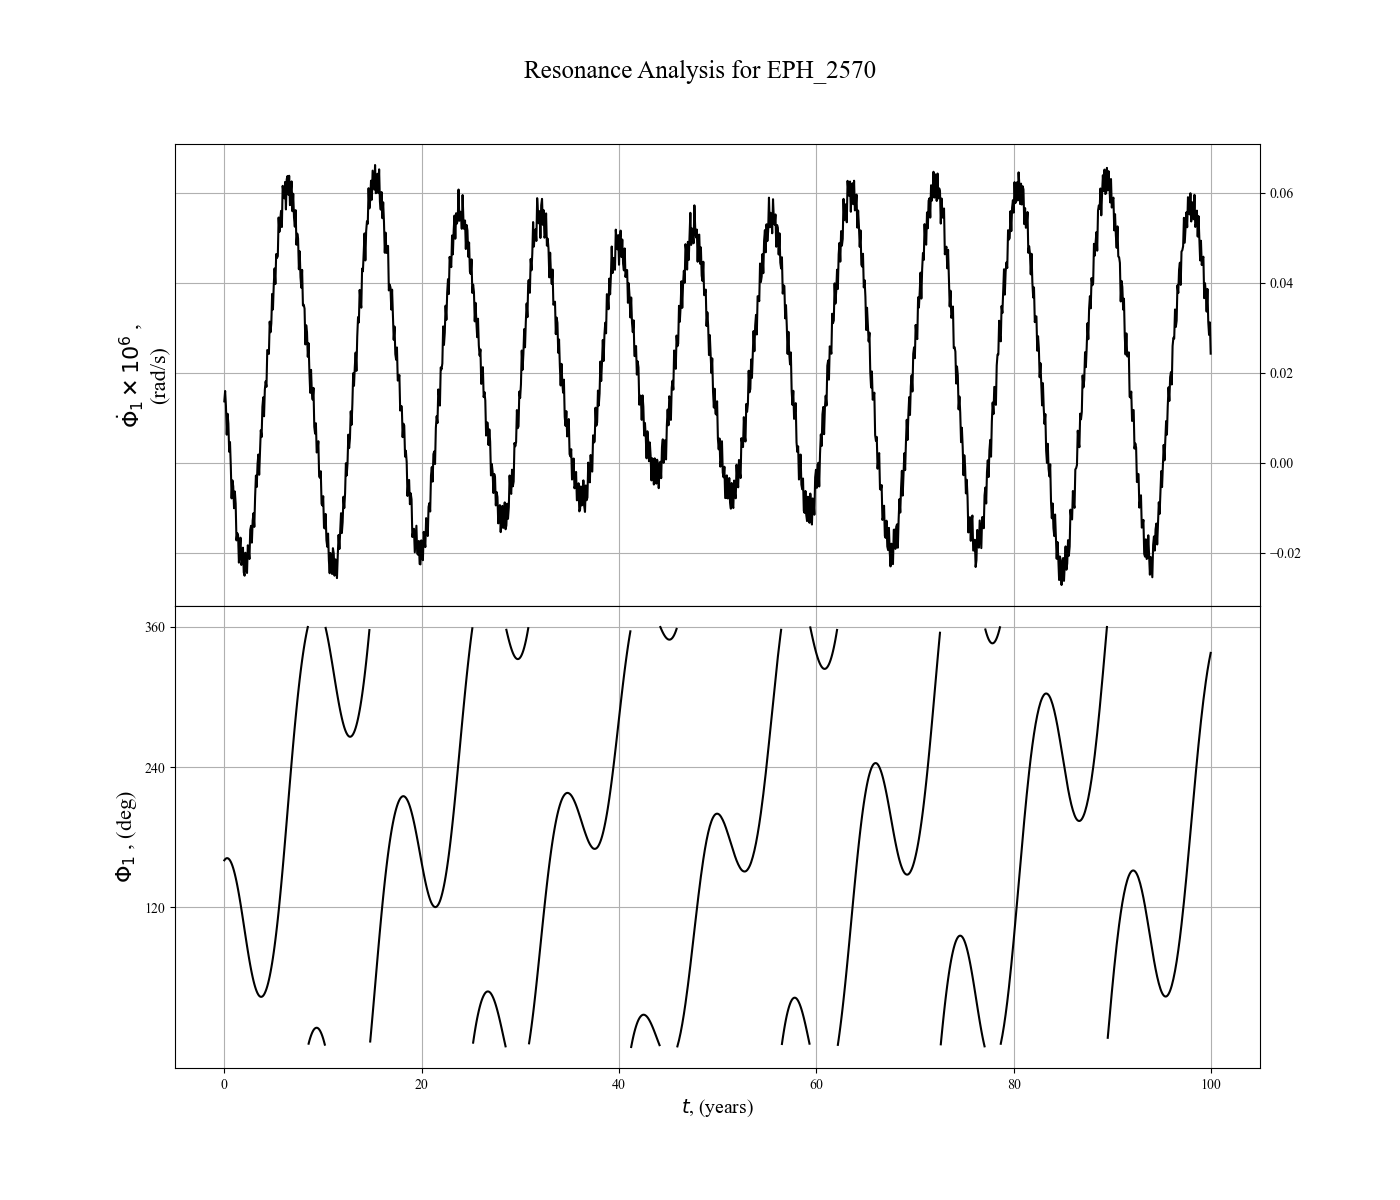
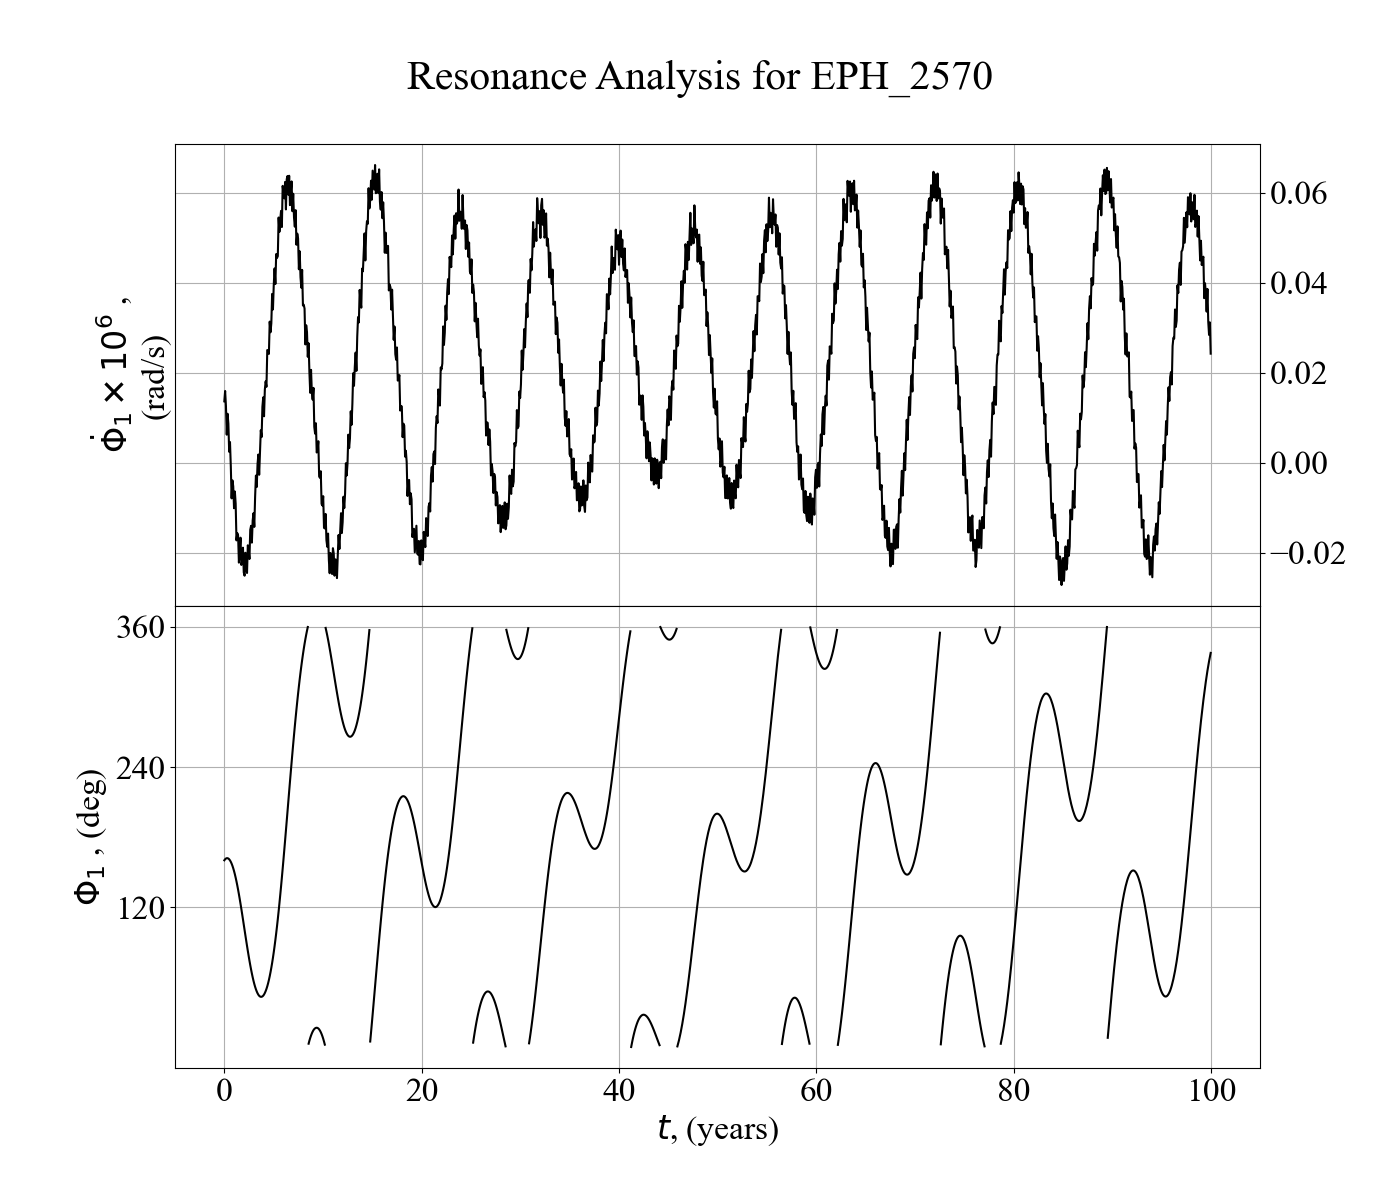
Change the font size of label in graphs

diff --git a/grapher.py b/grapher.py
@@ -57,13 +57,15 @@ def process_graph(subdirectory, base_path='data'):
 
         # Create a figure with subplots for stacked visualization
         fig, axes = plt.subplots(2, 1, figsize=(14, 12), sharex=True, gridspec_kw={'hspace': 0})
-        fig.suptitle(f'Resonance Analysis for {subdirectory}', fontsize=18, y=0.95)
+        fig.suptitle(f'Resonance Analysis for {subdirectory}', fontsize=30, y=0.95)
+        axes[0].tick_params(axis='both', which='major', labelsize=24)
+        axes[1].tick_params(axis='both', which='major', labelsize=24)
         
         for segment in segments:
             axes[0].plot(x[segment], y[segment]  * 1E6, color='black', label=rf"$\dot{{\phi}}_{i}$" if segment[0] == 0 else "")
 
-        axes[0].set_xlabel('Time (years)', fontsize=14)
-        axes[0].set_ylabel(rf'$\dot{{\Phi}}_{i}\, \text{{✕}}\, 10^{{6}}$' ' ,\n(rad/s)', fontsize=16)
+        # axes[0].set_xlabel('Time (years)', fontsize=24)
+        axes[0].set_ylabel(rf'$\dot{{\Phi}}_{i}\, \text{{✕}}\, 10^{{6}}$' ' ,\n(rad/s)', fontsize=24)
         # axes[0].set_title(rf'$\dot{{\Phi}}_{i}$', fontsize=16)
         axes[0].yaxis.tick_right()
         axes[0].grid(True)
@@ -81,8 +83,8 @@ def process_graph(subdirectory, base_path='data'):
             axes[1].plot(x[segment], y[segment], color='black', label=rf'$\phi_{i}$' if segment[0] == 0 else "")
 
         axes[1].set_yticks([120, 240, 360])
-        axes[1].set_ylabel(rf'$\Phi_{i}$' ' , (deg)', fontsize=16)
-        axes[1].set_xlabel(r'$t$, (years)', fontsize=14)
+        axes[1].set_ylabel(rf'$\Phi_{i}$' ' , (deg)', fontsize=24)
+        axes[1].set_xlabel(r'$t$, (years)', fontsize=24)
         # axes[1].set_title(rf'$\Phi_{i}$', fontsize=16)
         axes[1].grid(True)
         # axes[1].legend(fontsize=14)
